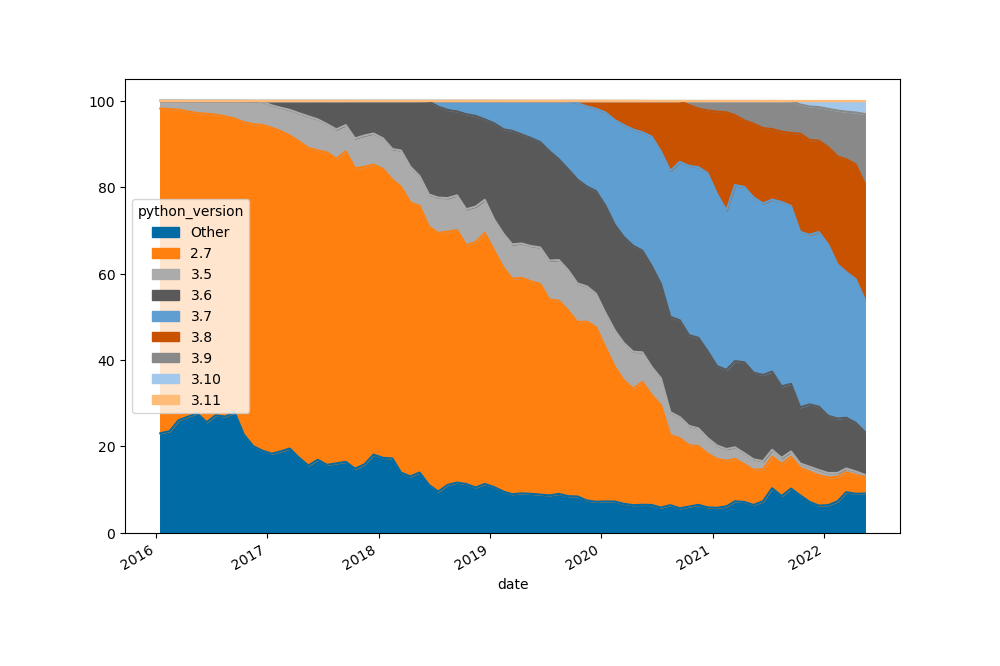
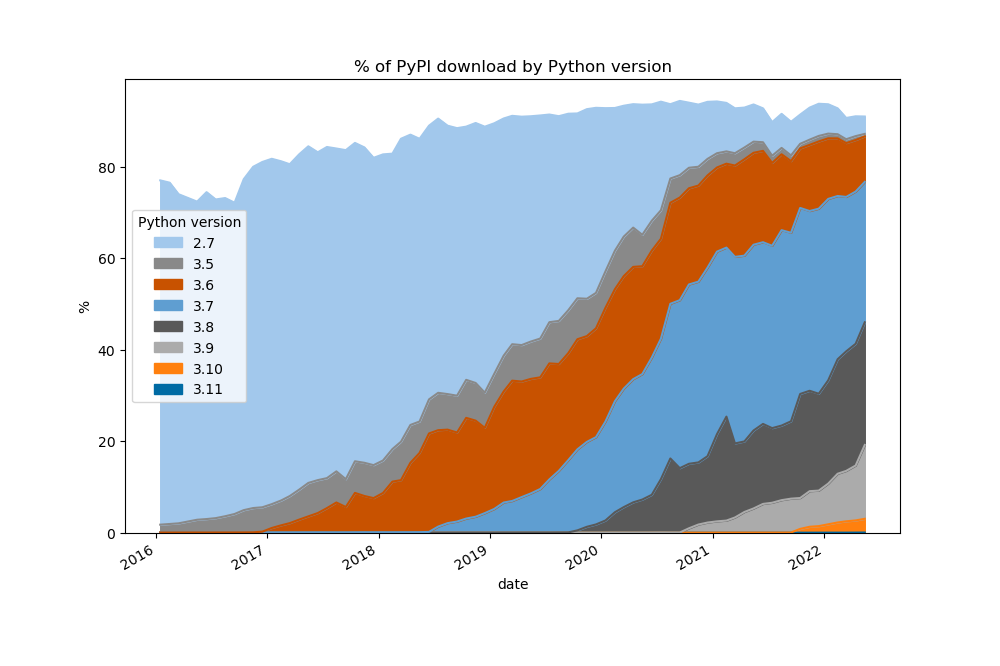
More readble pct graph.

diff --git a/python-versions.py b/python-versions.py
@@ -157,27 +157,34 @@ def plot_pct():
     db = DB()
     versions = pd.DataFrame(
         db.fetch_python_version(),
-        columns=["start_date", "end_date", "python_version", "download_count"],
+        columns=["start_date", "end_date", "Python version", "download_count"],
         dtype="str",
     )
     versions["download_count"] = pd.to_numeric(versions["download_count"])
-    versions["python_version"].fillna("Other", inplace=True)
+    versions["Python version"].fillna("Other", inplace=True)
     versions = versions.merge(
         versions.groupby("start_date").agg(monthly_downloads=("download_count", "sum")),
         on="start_date",
     )
     versions["pct"] = 100 * versions.download_count / versions.monthly_downloads
     versions["date"] = pd.to_datetime(versions.start_date) + timedelta(days=14)
-    versions.set_index(["python_version", "date"], inplace=True)
+    versions.set_index(["Python version", "date"], inplace=True)
     to_plot = versions.pct.unstack(0, fill_value=0)
-    to_plot.sort_values(by="python_version", axis=1, inplace=True, key=by_versions)
+    to_plot.sort_values(
+        by="Python version", ascending=False, axis=1, inplace=True, key=by_versions
+    )
     print(to_plot.tail(24))
-    for version in to_plot:
-        if version in HIDE:
-            to_plot["Other"] += to_plot[version]
-            del to_plot[version]
+    for version in HIDE:
+        del to_plot[version]
+    del to_plot["Other"]
     plt.style.use("tableau-colorblind10")
-    to_plot.plot.area(stacked=True, figsize=(10, 10 * 2 / 3))
+    to_plot.plot.area(
+        stacked=True,
+        figsize=(10, 10 * 2 / 3),
+        title="% of PyPI download by Python version",
+        legend="reverse",
+        ylabel="%",
+    )
     plt.savefig("python-versions-pct.png")
 
 
